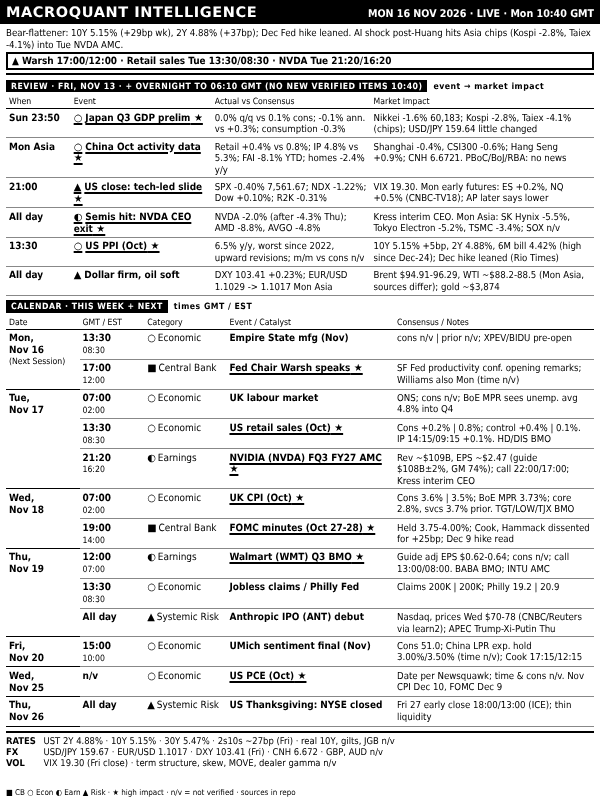
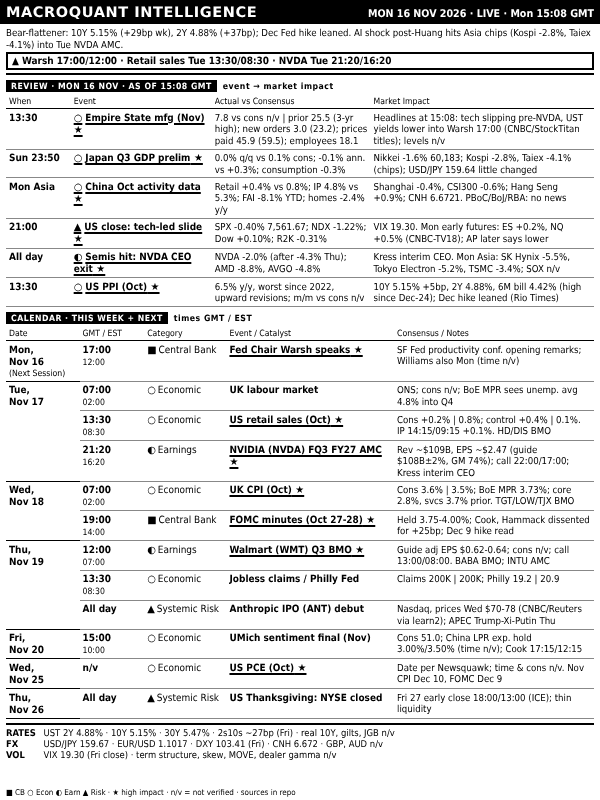
dashboard: MON 16 NOV 2026 LIVE 15:08
Claude-Session: https://claude.ai/code/session_016SJqa5YYAEWaZ6vsCTrz2y

Changed region(s): [[0.0, 0.0938, 0.99, 0.9688], [0.0, 0.5938, 0.09, 0.7188], [0.9, 0.0, 0.93, 0.0312]]

diff --git a/out/dashboard.html b/out/dashboard.html
@@ -38,11 +38,11 @@ table.bd{border-collapse:collapse;width:100%;table-layout:fixed;margin-top:1px}
 </style></head><body>
 <div id="root">
  <div class="hdr"><span class="t">MACROQUANT INTELLIGENCE</span>
-  <span class="r">MON 16 NOV 2026 · LIVE · Mon 10:40 GMT</span></div>
+  <span class="r">MON 16 NOV 2026 · LIVE · Mon 15:08 GMT</span></div>
  <div class="ban"><div class="rg">Bear-flattener: 10Y 5.15% (+29bp wk), 2Y 4.88% (+37bp); Dec Fed hike leaned. AI shock post-Huang hits Asia chips (Kospi -2.8%, Taiex -4.1%) into Tue NVDA AMC.</div><div class="al">▲ Warsh 17:00/12:00 · Retail sales Tue 13:30/08:30 · NVDA Tue 21:20/16:20</div></div>
- <div class="sl"><span>REVIEW · FRI, NOV 13 · + OVERNIGHT TO 06:10 GMT (NO NEW VERIFIED ITEMS 10:40)</span>event → market impact</div><table class="bd rv"><colgroup><col style="width:11%"><col style="width:24%"><col style="width:27%"><col></colgroup><tr><th>When</th><th>Event</th><th>Actual vs Consensus</th><th>Market Impact</th></tr><tr class="h"><td class="tm"><b>Sun 23:50</b></td><td class="ev"><i>○</i>Japan Q3 GDP prelim</td><td class="ac">0.0% q/q vs 0.1% cons; -0.1% ann. vs +0.3%; consumption -0.3%</td><td class="nt">Nikkei -1.6% 60,183; Kospi -2.8%, Taiex -4.1% (chips); USD/JPY 159.64 little changed</td></tr><tr class="h"><td class="tm"><b>Mon Asia</b></td><td class="ev"><i>○</i>China Oct activity data</td><td class="ac">Retail +0.4% vs 0.8%; IP 4.8% vs 5.3%; FAI -8.1% YTD; homes -2.4% y/y</td><td class="nt">Shanghai -0.4%, CSI300 -0.6%; Hang Seng +0.9%; CNH 6.6721. PBoC/BoJ/RBA: no news</td></tr><tr class="h"><td class="tm"><b>21:00</b></td><td class="ev"><i>▲</i>US close: tech-led slide</td><td class="ac">SPX -0.40% 7,561.67; NDX -1.22%; Dow +0.10%; R2K -0.31%</td><td class="nt">VIX 19.30. Mon early futures: ES +0.2%, NQ +0.5% (CNBC-TV18); AP later says lower</td></tr><tr class="h"><td class="tm"><b>All day</b></td><td class="ev"><i>◐</i>Semis hit: NVDA CEO exit</td><td class="ac">NVDA -2.0% (after -4.3% Thu); AMD -8.8%, AVGO -4.8%</td><td class="nt">Kress interim CEO. Mon Asia: SK Hynix -5.5%, Tokyo Electron -5.2%, TSMC -3.4%; SOX n/v</td></tr><tr class="h"><td class="tm"><b>13:30</b></td><td class="ev"><i>○</i>US PPI (Oct)</td><td class="ac">6.5% y/y, worst since 2022, upward revisions; m/m vs cons n/v</td><td class="nt">10Y 5.15% +5bp, 2Y 4.88%, 6M bill 4.42% (high since Dec-24); Dec hike leaned (Rio Times)</td></tr><tr><td class="tm"><b>All day</b></td><td class="ev"><i>▲</i>Dollar firm, oil soft</td><td class="ac">DXY 103.41 +0.23%; EUR/USD 1.1029 -&gt; 1.1017 Mon Asia</td><td class="nt">Brent $94.91-96.29, WTI ~$88.2-88.5 (Mon Asia, sources differ); gold ~$3,874</td></tr></table>
+ <div class="sl"><span>REVIEW · MON 16 NOV · AS OF 15:08 GMT</span>event → market impact</div><table class="bd rv"><colgroup><col style="width:11%"><col style="width:24%"><col style="width:27%"><col></colgroup><tr><th>When</th><th>Event</th><th>Actual vs Consensus</th><th>Market Impact</th></tr><tr class="h"><td class="tm"><b>13:30</b></td><td class="ev"><i>○</i>Empire State mfg (Nov)</td><td class="ac">7.8 vs cons n/v | prior 25.5 (3-yr high); new orders 3.0 (23.2); prices paid 45.9 (59.5); employees 18.1</td><td class="nt">Headlines at 15:08: tech slipping pre-NVDA, UST yields lower into Warsh 17:00 (CNBC/StockTitan titles); levels n/v</td></tr><tr class="h"><td class="tm"><b>Sun 23:50</b></td><td class="ev"><i>○</i>Japan Q3 GDP prelim</td><td class="ac">0.0% q/q vs 0.1% cons; -0.1% ann. vs +0.3%; consumption -0.3%</td><td class="nt">Nikkei -1.6% 60,183; Kospi -2.8%, Taiex -4.1% (chips); USD/JPY 159.64 little changed</td></tr><tr class="h"><td class="tm"><b>Mon Asia</b></td><td class="ev"><i>○</i>China Oct activity data</td><td class="ac">Retail +0.4% vs 0.8%; IP 4.8% vs 5.3%; FAI -8.1% YTD; homes -2.4% y/y</td><td class="nt">Shanghai -0.4%, CSI300 -0.6%; Hang Seng +0.9%; CNH 6.6721. PBoC/BoJ/RBA: no news</td></tr><tr class="h"><td class="tm"><b>21:00</b></td><td class="ev"><i>▲</i>US close: tech-led slide</td><td class="ac">SPX -0.40% 7,561.67; NDX -1.22%; Dow +0.10%; R2K -0.31%</td><td class="nt">VIX 19.30. Mon early futures: ES +0.2%, NQ +0.5% (CNBC-TV18); AP later says lower</td></tr><tr class="h"><td class="tm"><b>All day</b></td><td class="ev"><i>◐</i>Semis hit: NVDA CEO exit</td><td class="ac">NVDA -2.0% (after -4.3% Thu); AMD -8.8%, AVGO -4.8%</td><td class="nt">Kress interim CEO. Mon Asia: SK Hynix -5.5%, Tokyo Electron -5.2%, TSMC -3.4%; SOX n/v</td></tr><tr class="h"><td class="tm"><b>13:30</b></td><td class="ev"><i>○</i>US PPI (Oct)</td><td class="ac">6.5% y/y, worst since 2022, upward revisions; m/m vs cons n/v</td><td class="nt">10Y 5.15% +5bp, 2Y 4.88%, 6M bill 4.42% (high since Dec-24); Dec hike leaned (Rio Times)</td></tr></table>
  <div class="sl"><span>CALENDAR · THIS WEEK + NEXT</span>times GMT / EST</div>
- <table class="bd"><colgroup><col style="width:12.5%"><col style="width:11%"><col style="width:14%"><col style="width:28.5%"><col></colgroup><tr><th>Date</th><th>GMT / EST</th><th>Category</th><th>Event / Catalyst</th><th>Consensus / Notes</th></tr><tr class="g0"><td class="dt" rowspan="2">Mon,<br>Nov&nbsp;16<span class="tg">(Next Session)</span></td><td class="tm"><b>13:30</b><span>08:30</span></td><td class="ct"><i>○</i>Economic</td><td class="ev">Empire State mfg (Nov)</td><td class="nt">cons n/v | prior n/v; XPEV/BIDU pre-open</td></tr><tr class="h"><td class="tm"><b>17:00</b><span>12:00</span></td><td class="ct"><i>■</i>Central Bank</td><td class="ev">Fed Chair Warsh speaks</td><td class="nt">SF Fed productivity conf. opening remarks; Williams also Mon (time n/v)</td></tr><tr class="g0"><td class="dt" rowspan="3">Tue,<br>Nov&nbsp;17</td><td class="tm"><b>07:00</b><span>02:00</span></td><td class="ct"><i>○</i>Economic</td><td class="ev">UK labour market</td><td class="nt">ONS; cons n/v; BoE MPR sees unemp. avg 4.8% into Q4</td></tr><tr class="h"><td class="tm"><b>13:30</b><span>08:30</span></td><td class="ct"><i>○</i>Economic</td><td class="ev">US retail sales (Oct)</td><td class="nt">Cons +0.2% | 0.8%; control +0.4% | 0.1%. IP 14:15/09:15 +0.1%. HD/DIS BMO</td></tr><tr class="h"><td class="tm"><b>21:20</b><span>16:20</span></td><td class="ct"><i>◐</i>Earnings</td><td class="ev">NVIDIA (NVDA) FQ3 FY27 AMC</td><td class="nt">Rev ~$109B, EPS ~$2.47 (guide $108B±2%, GM 74%); call 22:00/17:00; Kress interim CEO</td></tr><tr class="g0 h"><td class="dt" rowspan="2">Wed,<br>Nov&nbsp;18</td><td class="tm"><b>07:00</b><span>02:00</span></td><td class="ct"><i>○</i>Economic</td><td class="ev">UK CPI (Oct)</td><td class="nt">Cons 3.6% | 3.5%; BoE MPR 3.73%; core 2.8%, svcs 3.7% prior. TGT/LOW/TJX BMO</td></tr><tr class="h"><td class="tm"><b>19:00</b><span>14:00</span></td><td class="ct"><i>■</i>Central Bank</td><td class="ev">FOMC minutes (Oct 27-28)</td><td class="nt">Held 3.75-4.00%; Cook, Hammack dissented for +25bp; Dec 9 hike read</td></tr><tr class="g0 h"><td class="dt" rowspan="3">Thu,<br>Nov&nbsp;19</td><td class="tm"><b>12:00</b><span>07:00</span></td><td class="ct"><i>◐</i>Earnings</td><td class="ev">Walmart (WMT) Q3 BMO</td><td class="nt">Guide adj EPS $0.62-0.64; cons n/v; call 13:00/08:00. BABA BMO; INTU AMC</td></tr><tr class=""><td class="tm"><b>13:30</b><span>08:30</span></td><td class="ct"><i>○</i>Economic</td><td class="ev">Jobless claims / Philly Fed</td><td class="nt">Claims 200K | 200K; Philly 19.2 | 20.9</td></tr><tr class=""><td class="tm"><b>All day</b></td><td class="ct"><i>▲</i>Systemic Risk</td><td class="ev">Anthropic IPO (ANT) debut</td><td class="nt">Nasdaq, prices Wed $70-78 (CNBC/Reuters via learn2); APEC Trump-Xi-Putin Thu</td></tr><tr class="g0"><td class="dt" rowspan="1">Fri,<br>Nov&nbsp;20</td><td class="tm"><b>15:00</b><span>10:00</span></td><td class="ct"><i>○</i>Economic</td><td class="ev">UMich sentiment final (Nov)</td><td class="nt">Cons 51.0; China LPR exp. hold 3.00%/3.50% (time n/v); Cook 17:15/12:15</td></tr><tr class="g0 h"><td class="dt" rowspan="1">Wed,<br>Nov&nbsp;25</td><td class="tm"><b>n/v</b></td><td class="ct"><i>○</i>Economic</td><td class="ev">US PCE (Oct)</td><td class="nt">Date per Newsquawk; time &amp; cons n/v. Nov CPI Dec 10, FOMC Dec 9</td></tr><tr class="g0"><td class="dt" rowspan="1">Thu,<br>Nov&nbsp;26</td><td class="tm"><b>All day</b></td><td class="ct"><i>▲</i>Systemic Risk</td><td class="ev">US Thanksgiving: NYSE closed</td><td class="nt">Fri 27 early close 18:00/13:00 (ICE); thin liquidity</td></tr></table>
+ <table class="bd"><colgroup><col style="width:12.5%"><col style="width:11%"><col style="width:14%"><col style="width:28.5%"><col></colgroup><tr><th>Date</th><th>GMT / EST</th><th>Category</th><th>Event / Catalyst</th><th>Consensus / Notes</th></tr><tr class="g0 h"><td class="dt" rowspan="1">Mon,<br>Nov&nbsp;16<span class="tg">(Next Session)</span></td><td class="tm"><b>17:00</b><span>12:00</span></td><td class="ct"><i>■</i>Central Bank</td><td class="ev">Fed Chair Warsh speaks</td><td class="nt">SF Fed productivity conf. opening remarks; Williams also Mon (time n/v)</td></tr><tr class="g0"><td class="dt" rowspan="3">Tue,<br>Nov&nbsp;17</td><td class="tm"><b>07:00</b><span>02:00</span></td><td class="ct"><i>○</i>Economic</td><td class="ev">UK labour market</td><td class="nt">ONS; cons n/v; BoE MPR sees unemp. avg 4.8% into Q4</td></tr><tr class="h"><td class="tm"><b>13:30</b><span>08:30</span></td><td class="ct"><i>○</i>Economic</td><td class="ev">US retail sales (Oct)</td><td class="nt">Cons +0.2% | 0.8%; control +0.4% | 0.1%. IP 14:15/09:15 +0.1%. HD/DIS BMO</td></tr><tr class="h"><td class="tm"><b>21:20</b><span>16:20</span></td><td class="ct"><i>◐</i>Earnings</td><td class="ev">NVIDIA (NVDA) FQ3 FY27 AMC</td><td class="nt">Rev ~$109B, EPS ~$2.47 (guide $108B±2%, GM 74%); call 22:00/17:00; Kress interim CEO</td></tr><tr class="g0 h"><td class="dt" rowspan="2">Wed,<br>Nov&nbsp;18</td><td class="tm"><b>07:00</b><span>02:00</span></td><td class="ct"><i>○</i>Economic</td><td class="ev">UK CPI (Oct)</td><td class="nt">Cons 3.6% | 3.5%; BoE MPR 3.73%; core 2.8%, svcs 3.7% prior. TGT/LOW/TJX BMO</td></tr><tr class="h"><td class="tm"><b>19:00</b><span>14:00</span></td><td class="ct"><i>■</i>Central Bank</td><td class="ev">FOMC minutes (Oct 27-28)</td><td class="nt">Held 3.75-4.00%; Cook, Hammack dissented for +25bp; Dec 9 hike read</td></tr><tr class="g0 h"><td class="dt" rowspan="3">Thu,<br>Nov&nbsp;19</td><td class="tm"><b>12:00</b><span>07:00</span></td><td class="ct"><i>◐</i>Earnings</td><td class="ev">Walmart (WMT) Q3 BMO</td><td class="nt">Guide adj EPS $0.62-0.64; cons n/v; call 13:00/08:00. BABA BMO; INTU AMC</td></tr><tr class=""><td class="tm"><b>13:30</b><span>08:30</span></td><td class="ct"><i>○</i>Economic</td><td class="ev">Jobless claims / Philly Fed</td><td class="nt">Claims 200K | 200K; Philly 19.2 | 20.9</td></tr><tr class=""><td class="tm"><b>All day</b></td><td class="ct"><i>▲</i>Systemic Risk</td><td class="ev">Anthropic IPO (ANT) debut</td><td class="nt">Nasdaq, prices Wed $70-78 (CNBC/Reuters via learn2); APEC Trump-Xi-Putin Thu</td></tr><tr class="g0"><td class="dt" rowspan="1">Fri,<br>Nov&nbsp;20</td><td class="tm"><b>15:00</b><span>10:00</span></td><td class="ct"><i>○</i>Economic</td><td class="ev">UMich sentiment final (Nov)</td><td class="nt">Cons 51.0; China LPR exp. hold 3.00%/3.50% (time n/v); Cook 17:15/12:15</td></tr><tr class="g0 h"><td class="dt" rowspan="1">Wed,<br>Nov&nbsp;25</td><td class="tm"><b>n/v</b></td><td class="ct"><i>○</i>Economic</td><td class="ev">US PCE (Oct)</td><td class="nt">Date per Newsquawk; time &amp; cons n/v. Nov CPI Dec 10, FOMC Dec 9</td></tr><tr class="g0"><td class="dt" rowspan="1">Thu,<br>Nov&nbsp;26</td><td class="tm"><b>All day</b></td><td class="ct"><i>▲</i>Systemic Risk</td><td class="ev">US Thanksgiving: NYSE closed</td><td class="nt">Fri 27 early close 18:00/13:00 (ICE); thin liquidity</td></tr></table>
  <div class="lv"><div><b>RATES</b>UST 2Y 4.88% · 10Y 5.15% · 30Y 5.47% · 2s10s ~27bp (Fri) · real 10Y, gilts, JGB n/v</div><div><b>FX</b>USD/JPY 159.67 · EUR/USD 1.1017 · DXY 103.41 (Fri) · CNH 6.672 · GBP, AUD n/v</div><div><b>VOL</b>VIX 19.30 (Fri close) · term structure, skew, MOVE, dealer gamma n/v</div></div>
 </div>
 <div class="foot">■ CB ○ Econ ◐ Earn ▲ Risk · ★ high impact · n/v = not verified · sources in repo</div>
